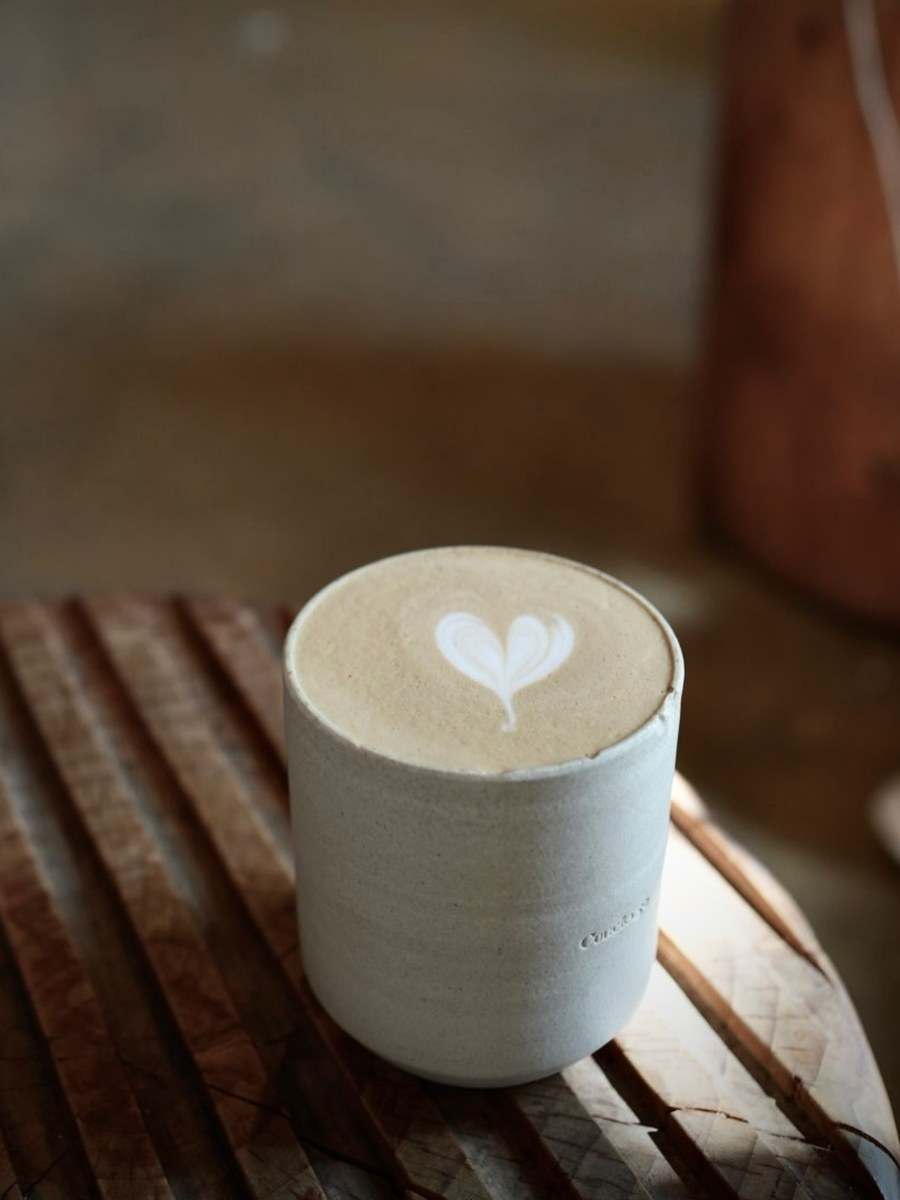
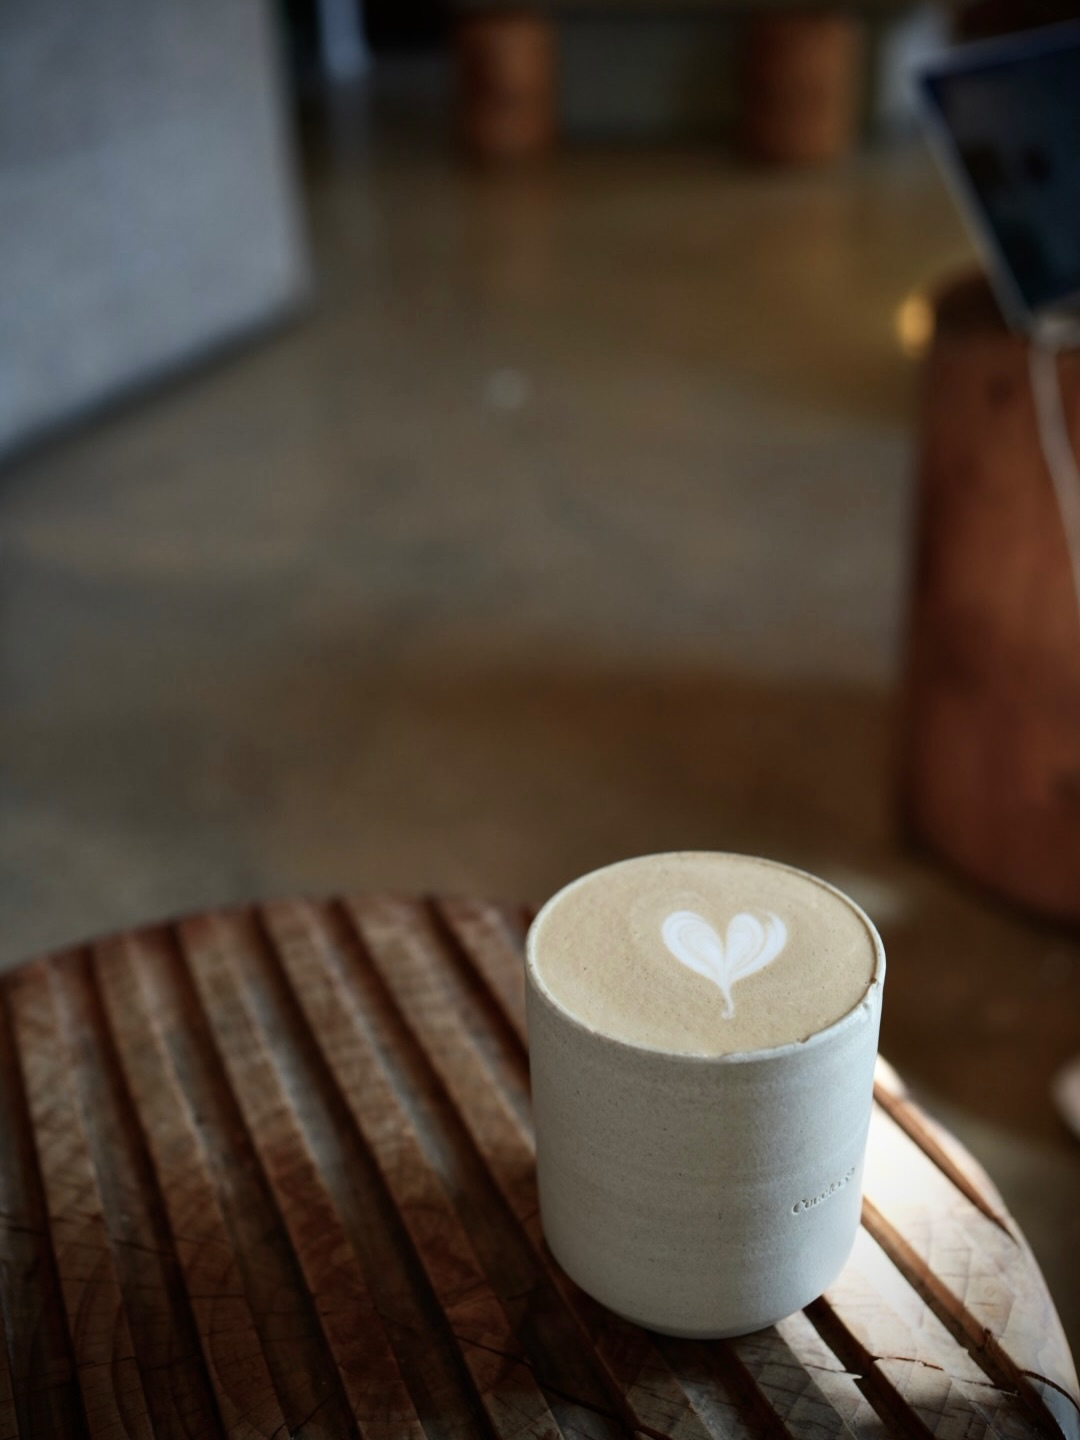
Drinks four up, and the Yuzu from the original file
The rail is gone. Four cards a row, all the same size, the row ending on the
section gutter. The cut last card was built as a scroll affordance and reads
as a broken grid next to blocks that all end flush, which is a fair verdict.
It steps 4 -> 3 -> 2 like the shop grid; the sections still differ in count
without one of them cutting a card at the edge.

The Specialty of the Month is the original Instagram frame -- 1080x1350 --
rather than the 900x1200 crop the site had been carrying since the menu was
built. Found in the Eagle archive under the concierge tag; it had been
recorded as not present there, which was wrong. That crop is why the phone
and the sunglasses kept running off the left edge no matter what shape the
frame took: every square and portrait tried over the last four rounds was
trimming a picture that had already been trimmed. The frame takes the
picture's own 4/5 now and crops nothing.

Flat White returns to the grid, also from the archive original at 1080x1440
rather than the 900x1200 crop.

Two of the four drinks for the new row could not be sourced -- the iced
matcha and the story frame are in neither the repo nor the archive. The row
is short until those files arrive.

diff --git a/index.html b/index.html
@@ -620,8 +620,6 @@
   }
 
   .menu-note { font-size: 10px; color: var(--muted); }
-  /* the rail carries no scrollbar, so the note says which way it goes */
-  .menu-note::after { content: '   \2190 \2192'; letter-spacing: 0.2em; }
 
   /* ── FEATURE BAND ──
      One photograph across the width of the section with the type overlaid at
@@ -684,12 +682,13 @@
     align-items: stretch;
     column-gap: var(--card-gap);
   }
-  /* Square, at half the section width. The portrait source is 3/4, so a
-     square frame trims a sixth off the top and a sixth off the bottom --
-     centred, which keeps the cup whole and the glasses in shot. This is the
-     one place on the page where a decided shape wins over the source's own,
-     because the height of a full-height portrait ran past the section. */
-  .feature--split .card-img { aspect-ratio: 1/1; }
+  /* 4/5 -- the ratio of the picture itself, so cover crops nothing. The file
+     is the original Instagram frame now rather than the 900x1200 crop the site
+     had been carrying, which is why the phone and the sunglasses finally sit
+     inside the frame with air around them instead of running off the edge.
+     Every square or portrait shape tried before this was trimming a picture
+     that was already trimmed. */
+  .feature--split .card-img { aspect-ratio: 4/5; }
 
   .feature--split .feature-face {
     position: static;
@@ -709,33 +708,16 @@
     margin-top: 26px;
   }
 
-  /* ── DRINK RAIL ──
-     Eight drinks in a four-up grid read as a second shop. A rail scrolls
-     across instead of down, which is the one direction the rest of the page
-     does not use. The track is a fixed width rather than minmax(0, ...): a
-     track with a zero minimum is compressed back to fit the container and the
-     rail silently stops scrolling. */
+  /* ── DRINK GRID ──
+     Four up, every card the same size, the row ending exactly on the section
+     gutter. The rail this replaces cut its last card at the edge as a scroll
+     affordance; read as a broken grid instead, which is a fair verdict when
+     every other block on the page ends flush. */
   .menu-grid {
     display: grid;
-    grid-template-columns: none;
-    grid-auto-flow: column;
-    /* Tracks are a fraction of the CONTAINER, not of the viewport. 25vw plus a
-       negative margin ran the rail out to the window edge while every other
-       block on the page stopped at the 32px gutter, which reads as a broken
-       grid rather than as a scroll affordance -- and vw includes the scrollbar
-       width in Chrome, so on a desktop with classic scrollbars it pushed the
-       whole document sideways. Three and a half cards fit, so the half card is
-       cut by the section edge instead: same affordance, correct width. */
-    grid-auto-columns: calc((100% - 3 * var(--card-gap)) / 3.5);
+    grid-template-columns: repeat(4, 1fr);
     gap: var(--card-gap);
-    overflow-x: auto;
-    overscroll-behavior-x: contain;
-    scroll-snap-type: x proximity;
-    scrollbar-width: none;
   }
-  .menu-grid::-webkit-scrollbar { display: none; }
-  .menu-grid:focus-visible { outline: 2px solid #111; outline-offset: 3px; }
-  .menu-card { scroll-snap-align: start; }
 
   .menu-sub {
     font-size: 9px;
@@ -841,11 +823,11 @@
     :root { --section-gap: 104px; --head-gap: 22px; --card-gap: 14px; }
     nav, .hero, .shop, footer { padding-left: 24px; padding-right: 24px; }
     .grid { grid-template-columns: repeat(3, 1fr); }
-    .menu-grid { grid-auto-columns: calc((100% - 2 * var(--card-gap)) / 2.5); }
+    .menu-grid { grid-template-columns: repeat(3, 1fr); }
     .feature .card-img { aspect-ratio: 3/2; }
     /* restated, not inherited: .feature .card-img sits later in the file at
-       the same specificity, so without this the square becomes 3/2 here */
-    .feature--split .card-img { aspect-ratio: 1/1; }
+       the same specificity, so without this it becomes 3/2 here */
+    .feature--split .card-img { aspect-ratio: 4/5; }
     .feature--wide .card-img { aspect-ratio: 16/9; }
     .feature-face { padding: 26px 24px; }
     .feature--split .feature-face { padding: 0 24px; }
@@ -894,19 +876,20 @@
     .hero-hours { text-align: left; align-self: flex-start; }
     .shop { padding-bottom: var(--section-gap); }
     .grid { grid-template-columns: repeat(2, 1fr); }
-    .menu-grid { grid-auto-columns: calc((100% - 1 * var(--card-gap)) / 1.6); }
+    .menu-grid { grid-template-columns: repeat(2, 1fr); }
     /* a feature on a phone wants height, not width, and 4/5 is close to
        the native crop so it barely crops at all */
     .feature .card-img { aspect-ratio: 4/5; }
-    /* the split stays square here too: the same rule, later in the file,
-       otherwise re-shapes the stacked picture */
-    .feature--split .card-img { aspect-ratio: 1/1; }
+    /* restated here too, for the same reason */
+    .feature--split .card-img { aspect-ratio: 4/5; }
     .feature--wide .card-img { aspect-ratio: 4/3; }
     .feature-face { padding: 18px 16px; }
     .feature-cat { max-width: none; }
-    /* stacked: picture, then type under it on white. Square, so full width
-       is 736 tall at most rather than the 981 a portrait frame would give. */
+    /* stacked: picture, then type under it on white. Capped, because at 736
+       wide an uncropped 4/5 picture is 920 tall -- a whole screen for one
+       drink. The cap sizes it without cropping anything back off. */
     .feature--split { grid-template-columns: 1fr; }
+    .feature--split .card-img { max-width: 640px; }
     .feature--split .feature-face { padding: 16px 0 0; }
     .feature--split .feature-cat { max-width: none; margin-top: 8px; }
     .feature--split .feature-note { margin-top: 14px; }
@@ -927,7 +910,7 @@
     .logo .lk { width: 20.1px; height: 16px; }
     .logo .lw { width: 60.7px; height: 13px; }
     .shop-head { padding-bottom: var(--head-gap); }
-    .menu-grid { grid-auto-columns: calc((100% - 1 * var(--card-gap)) / 1.25); }
+    .menu-grid { grid-template-columns: repeat(2, 1fr); }
 
     /* Shop card at two up. The face has to carry a name, a size, a price and
        a button in about 145px of usable width. */
@@ -1134,10 +1117,7 @@
       <div class="feature-note">Served at 821 Traction Ave</div>
     </div>
   </div>
-  <!-- tabindex and role so the rail is reachable and announced: four of the
-       seven cards are plain divs with nothing focusable inside, so without
-       this a keyboard could not scroll it. -->
-  <div class="menu-grid" tabindex="0" role="region" aria-label="Coffee specialties, scroll sideways">
+  <div class="menu-grid">
     <div class="card menu-card">
       <div class="card-img">
         <img src="images/drink-einspanner.jpg" alt="Einspänner" loading="lazy" />
@@ -1183,6 +1163,16 @@
       <div class="card-info">
         <div class="card-name">Hojicha Latte</div>
         <div class="card-cat">Roasted green tea, milk</div>
+      </div>
+    </a>
+    <a class="card menu-card" href="https://www.instagram.com/cafe.planes/p/DV6UxqekjoI/" target="_blank" rel="noopener noreferrer">
+      <div class="card-img">
+        <img src="images/drink-flat-white.jpg" alt="Flat White" loading="lazy" />
+        <div class="menu-credit"><span>Photograph @cafe.planes ↗</span></div>
+      </div>
+      <div class="card-info">
+        <div class="card-name">Flat White</div>
+        <div class="card-cat">Double espresso, steamed milk</div>
       </div>
     </a>
   </div>
